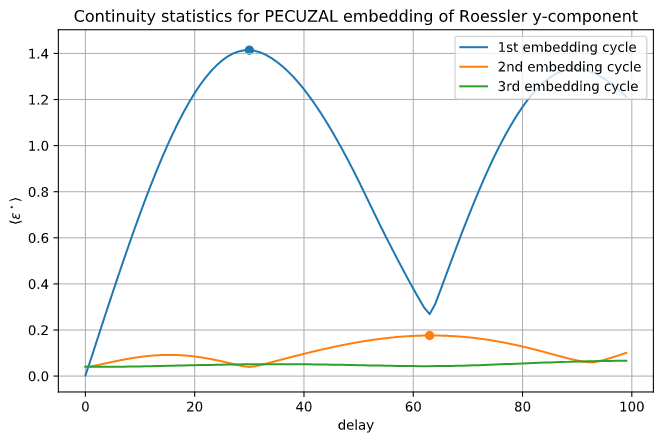
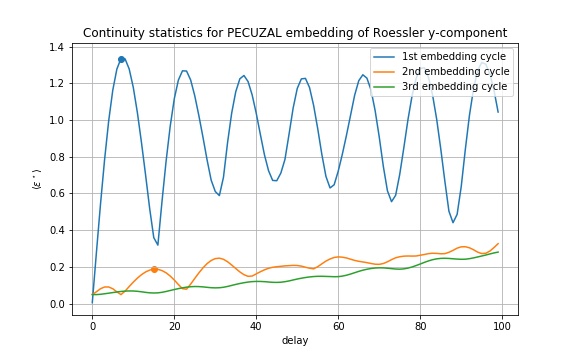
version increase; documentation example updated

Changed region(s): [[0.0, 0.0, 1.0, 0.9778], [0.7188, 0.6111, 0.75, 0.6722]]

diff --git a/docs/compute_documentation_examples.py b/docs/compute_documentation_examples.py
@@ -17,6 +17,7 @@ import numpy as np
 from scipy.integrate import odeint
 
 import matplotlib.pyplot as plt
+from mpl_toolkits import mplot3d
 from pecuzal_embedding import pecuzal_embedding, mi
 
 # integrate Roessler system on standard parameters
@@ -49,7 +50,7 @@ plt.title('Mutual information for y-component of Roessler test time series')
 plt.subplots_adjust(hspace=.3)
 plt.savefig('mi_and_timeseries_y_comp.png')
 
-Y_reconstruct, tau_vals, ts_vals, Ls, eps = pecuzal_embedding(y, taus = range(100), theiler = 7)
+Y_reconstruct, tau_vals, ts_vals, Ls, eps = pecuzal_embedding(y, taus = range(100), theiler = 7, econ = True)
 
 fig = plt.figure(figsize=(14., 8.))
 ax = plt.subplot(121, projection='3d')
@@ -86,6 +87,8 @@ plt.grid()
 plt.savefig('continuity_univariate.png')
 
 print(Ls)
+L_total_uni = np.sum(Ls)
+print(L_total_uni)
 
 
 ## Multivariate example
@@ -119,14 +122,14 @@ for i in range(0,6,2):
 plt.subplots_adjust(hspace=.3)
 plt.savefig('mi_and_timeseries_multi.png')
 
-Y_reconstruct, tau_vals, ts_vals, Ls, eps = pecuzal_embedding(data, taus = range(100), theiler = 7)
+Y_reconstruct, tau_vals, ts_vals, Ls, eps = pecuzal_embedding(data, taus = range(100), theiler = 7, econ = True)
 
 print(tau_vals)
 print(ts_vals)
 
 print(Ls)
-L_total = np.sum(Ls[:-1])
-print(L_total)
+L_total_multi = np.sum(Ls)
+print(L_total_multi)
 
 ts_labels = ['x','y','z']
 
@@ -173,4 +176,4 @@ plt.xlabel('sample')
 plt.grid()
 plt.savefig('ar_ts.png')
 
-Y_reconstruct, tau_vals, ts_vals, Ls, eps = pecuzal_embedding(data)
+Y_reconstruct, tau_vals, ts_vals, Ls, eps = pecuzal_embedding(data, econ = True)

diff --git a/setup.py b/setup.py
@@ -5,7 +5,7 @@ with open("README.rst", "r") as fh:
 
 setuptools.setup(
     name="pecuzal_embedding", 
-    version="1.2.1",
+    version="1.3.0",
     author="K.H.Kraemer",
     author_email="hkraemer@pik-potsdam.de",
     description="PECUZAL automatic embedding of uni- and multivariate time series",

diff --git a/README.rst b/README.rst
@@ -37,8 +37,9 @@ it is well documented and embedded in the
 `DynamicalSystems.jl <https://juliadynamics.github.io/DynamicalSystems.jl/dev/>`_ ecosystem.
 For instance, the compuations made in the `Univariate example <https://hkraemer.github.io/PECUZAL_python/univariate_example.html>`_ 
 and the `Multivariate example <https://hkraemer.github.io/PECUZAL_python/multivariate_example.html>`_
-in this documentation took approximately `1500s` (approx. 25 mins) and `7500s` (approx. 2 hours!), respectively. In the Julia implementation
-the exact same computation took `3s` and `20s`, respectively! (running on a 2.8GHz Quad-Core i7,  16GB 1600 MHz DDR3)
+in this documentation took approximately `800s` (approx. 13 mins) and `7500s` (approx. 1 hour and 10 mins!), respectively, even when
+using the `econ` option in the function call, for a  In the Julia implementation
+the exact same computation took `4s` and `25s`, respectively! (running on a 2.8GHz Quad-Core i7,  16GB 1600 MHz DDR3)
 
 
 Documentation
